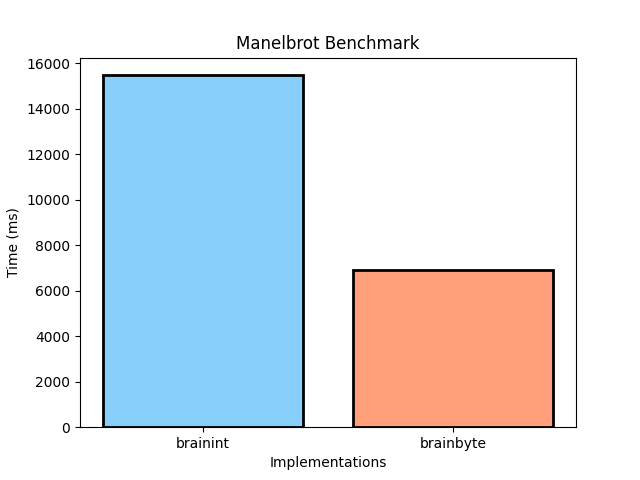
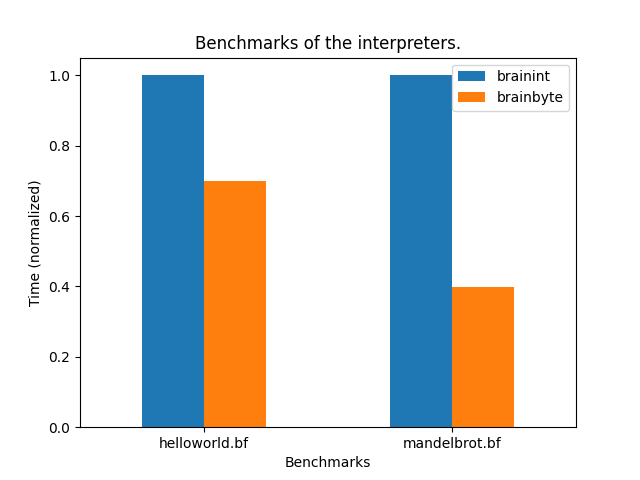
Update visualize script for multiple benchmarks

diff --git a/visualize.py b/visualize.py
@@ -2,46 +2,63 @@
 # plots how they perform.
 import time
 import subprocess
-import matplotlib.pyplot as plt
+import pandas as pd
 
 PROGRAMS = ["brainint", "brainbyte"]
-BENCHMARKS = ["mandelbrot.bf"]
+BENCHMARKS = ["helloworld.bf", "mandelbrot.bf"]
 
 
 def run(target):
     executable = "build/" + target[0]
     program = "examples/" + target[1]
-    print(f"Running ./{executable} {program} ...")
+    print(f"Running ./{executable} {program}... \t", end="", flush=True)
 
     start = time.time_ns()
     subprocess.run([executable, program], capture_output=True)
-    return (time.time_ns() - start) / 1000 / 1000
+    elapsed_ms = (time.time_ns() - start) / 1000 / 1000
+    print(f" [{elapsed_ms:.2f}ms]")
+    return elapsed_ms
 
 
 def plot(results):
-    data = [t[1] for t in results["mandelbrot.bf"]]
-    labels = [t[0] for t in results["mandelbrot.bf"]]
-    plt.bar(
-        labels,
+    # Create the correct data format
+    data = []
+    for benchmark in BENCHMARKS:
+        out = [benchmark]
+        interpreter_ms = results[benchmark]["brainint"]
+        for program in PROGRAMS:
+            out.append(results[benchmark][program] / interpreter_ms)
+        data.append(out)
+    df = pd.DataFrame(
         data,
-        color=["#87CEFA", "#FFA07A"],
-        edgecolor=["#000", "#000"],
-        linewidth=2,
+        columns=["Programs"] + PROGRAMS,
     )
-    plt.ylabel("Time (ms)")
-    plt.xlabel("Implementations")
-    plt.title("Manelbrot Benchmark")
-    plt.savefig("plot.png")
+
+    # Create the plot
+    ax = df.plot(
+        x="Programs",
+        kind="bar",
+        stacked=False,
+        title="Benchmarks of the interpreters.",
+        rot=0,
+    )
+
+    ax.set_xlabel("Benchmarks")
+    ax.set_ylabel("Time (normalized)")
+
+    # Save the plot
+    fig = ax.get_figure()
+    fig.savefig("plot.png")
 
 
 def main():
     # Create all targets
     targets = [(p, b) for b in BENCHMARKS for p in PROGRAMS]
 
-    results = {b: [] for b in BENCHMARKS}
+    results = {b: dict() for b in BENCHMARKS}
     for target in targets:
         elapsed_ms = run(target)
-        results[target[1]].append((target[0], elapsed_ms))
+        results[target[1]][target[0]] = elapsed_ms
 
     plot(results)
 
